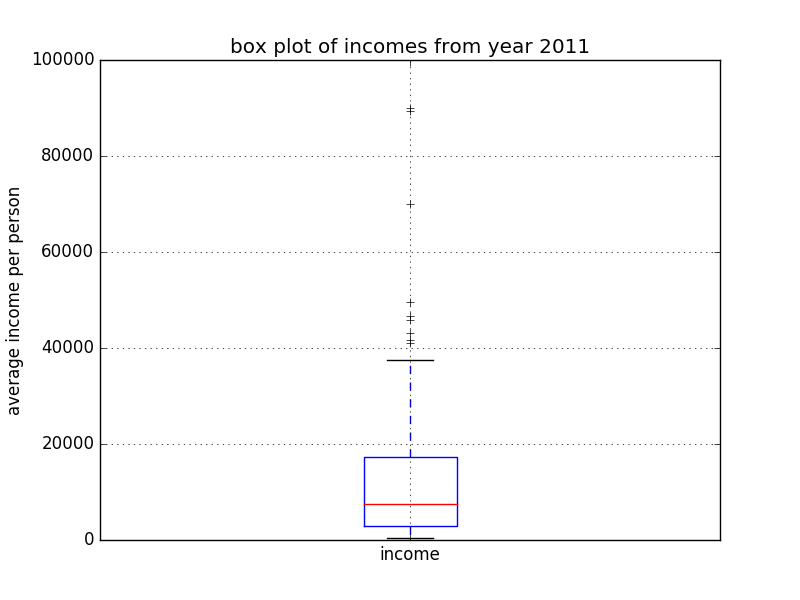
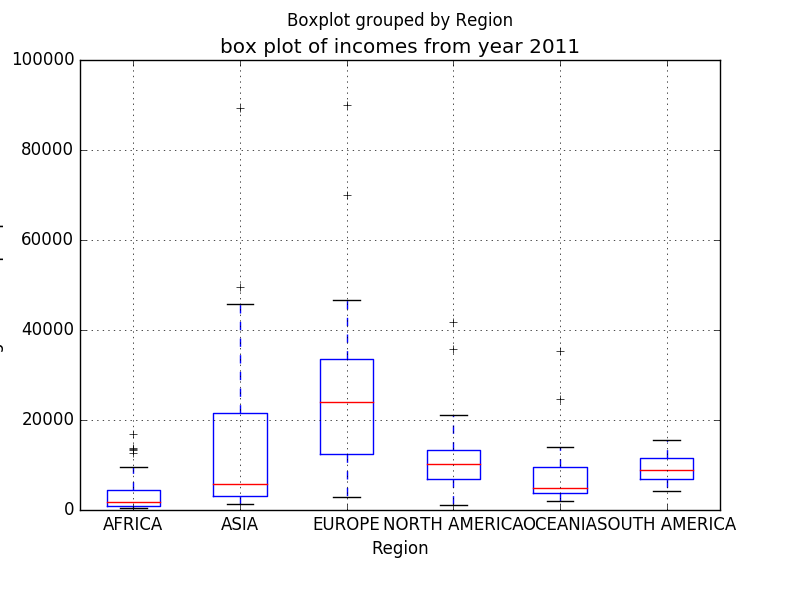
fixed graphs by region

diff --git a/lt1503/EconVisualizer/econ_visualizer.py b/lt1503/EconVisualizer/econ_visualizer.py
@@ -22,7 +22,7 @@ class EconVisualizer(object):
     
     def graph_years(self, years):
         """
-        graph incomes from income and countries dataframes of a list of years
+        graph income from income and countries dataframes within list of years
         :param years: int-like
         :return: None. Writes boxplots and histograms to file for income and country data
                 for years in parameter years
@@ -47,6 +47,9 @@ class EconVisualizer(object):
 
             merged_df = merge_by_year(self.income, self.countries, year)
 
+            #for region in merged_df['Region'].unique():
+            #    region_df = merged_df[merged_df['Region']==region,:]
+            #    region_df.year = year
             self._box(merged_df, visualize = False)
             self._hist(merged_df, visualize = False)
             
@@ -63,11 +66,11 @@ class EconVisualizer(object):
             raise TypeError("hist df must be a pandas DataFrame")
 
         try:
-            income = df["income"]
+            df["income"]
         except KeyError:
-            raise KeyError("econ visualizer histograms require income columns")
+            raise ValueError("econ visualizer histograms require income columns")
         plt.figure()
-        income.hist()
+        df.hist(column='income', by='Region')
         
         try:
             year_label = "year " + str(df.year)
@@ -80,7 +83,8 @@ class EconVisualizer(object):
         plt.savefig("histogram of incomes from " + year_label + ".png")
 
         if visualize:
-            plt.show()   
+            plt.show()
+        plt.close()
             
     def _box(self, df, visualize = True):
         """
@@ -95,11 +99,11 @@ class EconVisualizer(object):
             raise TypeError("box df must be a pandas DataFrame")
 
         try:
-            income = df[["income"]]
+            df[["income"]]
         except KeyError:
             raise KeyError("econ visualizer booxplots require income columns")
-        plt.figure()   
-        income.boxplot()
+        plt.figure()
+        df.boxplot(column='income', by='Region')
         
         try:
             year_label = "year " + str(df.year)
@@ -112,3 +116,4 @@ class EconVisualizer(object):
 
         if visualize:
             plt.show()
+        plt.close()
